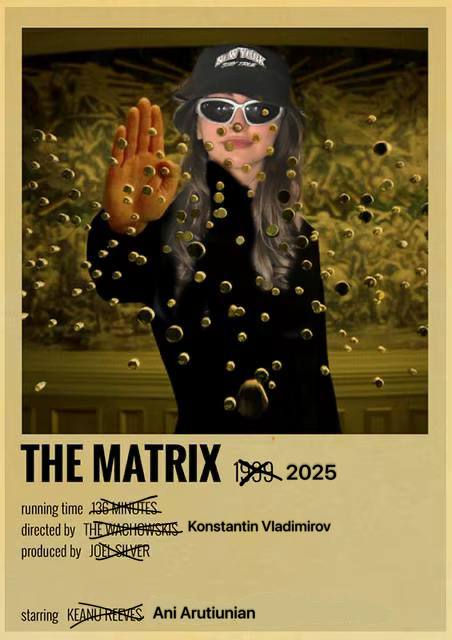
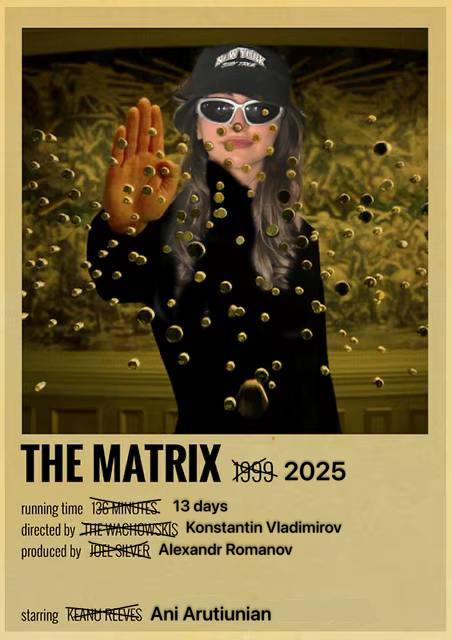
update the poster (finished the project)

Changed region(s): [[0.1549, 0.75, 0.7743, 0.875], [0.1549, 0.9375, 0.6195, 1.0], [0.5265, 0.7188, 0.7743, 0.7812]]

diff --git a/README.md b/README.md
@@ -2,8 +2,6 @@
 
 <image src="for_readme/thematrix.png" width=500px>
 
-upb<sub>после завершения проекта и определения ментора поля постера заполнятся:)</sub>
-
 ## What does it do?
 
 You can use this project to work with matrices, perform basic operations on them, and most importantly, for calculating the determinant.
